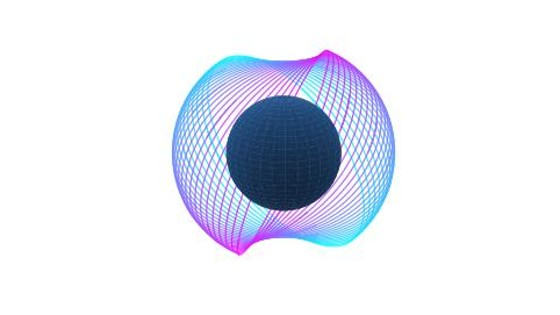
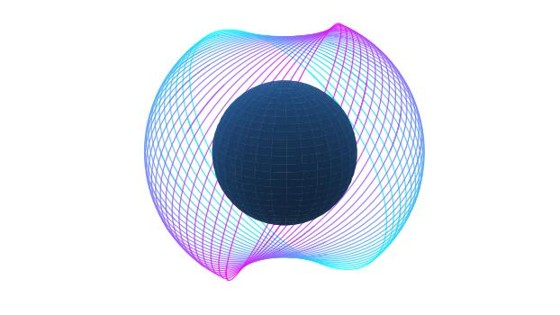
Tune card thumbnails and titles

Changed region(s): [[0.2429, 0.0571, 0.7589, 0.9143]]

diff --git a/demo/build_showcase.py b/demo/build_showcase.py
@@ -345,18 +345,18 @@ def clean_thumbs():
         canvas.paste(im, ((W - w) // 2, (H - h) // 2))
         canvas.resize((560, 315)).save(path, quality=90)
 
-    def earth(ax):
+    def earth(ax, zoom=1.9):
         u_, v_ = np.mgrid[0:2 * np.pi:60j, 0:np.pi:30j]
         ax.plot_surface(np.cos(u_) * np.sin(v_), np.sin(u_) * np.sin(v_), np.cos(v_), color="#2f6db5", alpha=.9,
                         linewidth=0, shade=True)
-        ax.set_box_aspect((1, 1, 1))
+        ax.set_box_aspect((1, 1, 1), zoom=zoom)
         ax.set_axis_off()
 
     z = np.load(OUT / "lageos" / "arrays.npz")
     if "train_orbits" in z.files:
         fig = plt.figure(figsize=(5.6, 3.15))
-        ax = fig.add_subplot(111, projection="3d")
-        earth(ax)
+        ax = fig.add_axes([0, 0, 1, 1], projection="3d")
+        earth(ax, zoom=1.25)
         O = z["train_orbits"]
         for i, o in enumerate(O):
             ax.plot(o[:, 0], o[:, 1], o[:, 2], color=plt.cm.cool(i / len(O)), lw=0.8, alpha=.85)
@@ -366,7 +366,7 @@ def clean_thumbs():
         save(fig, "lageos")
     z = np.load(OUT / "orbit" / "arrays.npz")
     fig = plt.figure(figsize=(5.6, 3.15))
-    ax = fig.add_subplot(111, projection="3d")
+    ax = fig.add_axes([0, 0, 1, 1], projection="3d")
     earth(ax)
     U = z["U_train"]
     ax.plot(U[:, 0], U[:, 1], U[:, 2], color="#eb6834", lw=0.5, alpha=.8)

diff --git a/demo/ui.py b/demo/ui.py
@@ -343,7 +343,7 @@ CSS3 = """
 .law {font-size: 1.25rem; font-weight: 700; margin: .2rem 0;}
 .home-t {font-size: 3.6rem; font-weight: 900; letter-spacing: -0.035em; line-height: 1.05; margin: 1rem 0 .4rem 0;}
 .home-s {font-size: 1.3rem; opacity: .6; margin-bottom: 2rem;}
-.cardn {font-size: 1.55rem; font-weight: 850; text-align: center; margin: .5rem 0 .2rem 0;}
+.cardn {font-size: 1.12rem; font-weight: 850; text-align: center; margin: .5rem 0 .2rem 0; white-space: nowrap;}
 </style>
 """
 
